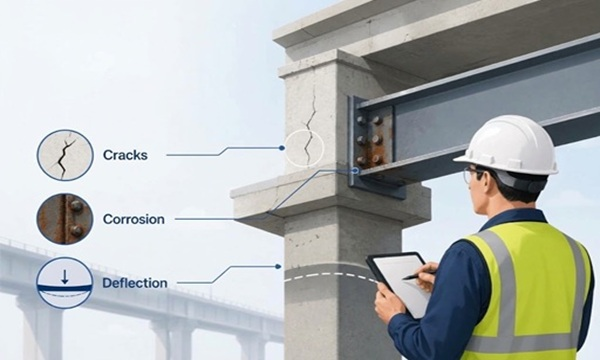
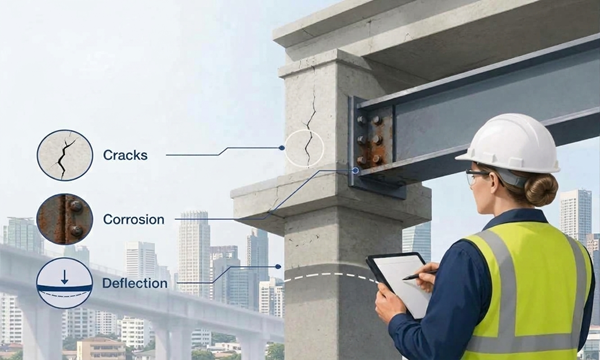
Adds the description for the process flow and a number of improvements to other sections

diff --git a/avi_document.md b/avi_document.md
@@ -10,33 +10,37 @@ The purpose of this document is to provide an overview of AVI, including its def
 
 ### Classical visual inspection
 
+![human-inspector](assets/human-inspector.png)
+
 Before defining what automatic visual inspection involves, it is important to understand what human-based inspection involves (classical visual inspection). Visual inspection is the process of examining products, components, or structures using the human eye; often aided by lighting, magnification, or simple hand tools; to detect flaws, defects, or non-compliance with quality standards. Below we list a few examples of classical visual inspection tasks across different industries.
 
 #### Food processing and sorting
 
 ![eggs-inspection](assets/eggs-inspection.png)
 
-Quality control sorters (line workers) stand alongside moving conveyor belts to manually inspect raw or semi-processed agricultural goods, e.g., fresh fruits, root vegetables, nuts,  bakery items. Their task is to scan for and discard bruised, rotting, or misshapen produce, alongside foreign contaminants, e.g., stones, stems, dirt clumps, or pieces of field debris. Such tasks are common in agribusiness, food packaging plants, frozen food processing, snack food manufacturing, and catering suppliers.
+Quality control sorters (line workers) stand alongside moving conveyor belts to manually inspect raw or semi-processed agricultural goods, e.g., fresh fruits, root vegetables, nuts,  bakery items. Their task is to scan for and discard bruised, rotting, or misshapen produce, alongside foreign contaminants, e.g., stones, stems, dirt clumps, or pieces of field debris. Such tasks are common in agribusiness, food packaging plants, frozen food processing, snack food manufacturing, and catering suppliers. The image in this example was generated using Gemini AI.
 
 #### Plastic parts inspection
 
 ![3d-print-inspection](assets/3d-print-inspection.png)
 
-Machine operators and / or quality control technicians visually inspect molded plastic components, e.g., automotive interior trim, appliance housings, plastic containers, or toys. This is typically done as the produced goods emerge from injection molding presses, extrusion lines or 3D printers. Inspectors check for surface defects such as excess plastic, sink marks, incomplete fills, flow lines, burn marks. Such tasks are common in automotive manufacturing, consumer electronics, toy production, medical device disposable packaging, and plastic injection molding services.
+Machine operators and / or quality control technicians visually inspect molded plastic components, e.g., automotive interior trim, appliance housings, plastic containers, or toys. This is typically done as the produced goods emerge from injection molding presses, extrusion lines or 3D printers. Inspectors check for surface defects such as excess plastic, sink marks, incomplete fills, flow lines, burn marks. Such tasks are common in automotive manufacturing, consumer electronics, toy production, medical device disposable packaging, and plastic injection molding services. The image in this example was generated using Gemini AI.
 
 #### Textile and fabric quality grading
 
 ![textile-inspection](assets/textile-inspection.png)
 
-Textile examiners feed large rolls of woven or knitted fabric through an illuminated inspection machine or board. As the fabric moves past at eye level, inspectors scan for irregularities such as, stains, missing ends, yarn lumps, and shade variations. They measure flaw sizes and apply standardized penalty points to determine if a roll passes quality thresholds. Such tasks are common in apparel and garment manufacturing, home textiles (bedding, curtains, floor coverings), industrial textile filters, and fabric distributors.
+Textile examiners feed large rolls of woven or knitted fabric through an illuminated inspection machine or board. As the fabric moves past at eye level, inspectors scan for irregularities such as, stains, missing ends, yarn lumps, and shade variations. They measure flaw sizes and apply standardized penalty points to determine if a roll passes quality thresholds. Such tasks are common in apparel and garment manufacturing, home textiles (bedding, curtains, floor coverings), industrial textile filters, and fabric distributors. The image in this example was generated using Gemini AI.
 
 #### Structural infrastructure inspection
 
 ![structural-inspection](assets/structural-inspection.png)
 
-Civil engineers and certified structural inspectors conduct visual surveys of critical infrastructure, e.g., concrete bridges, highway overpasses, tunnels, and retaining walls. Using specialized tools like crack-width rulers, inspection hammers, binoculars. They inspect surfaces for signs of structural cracking, rust bleeding from internal rebar corrosion, and joint deterioration. Such tasks are common in civil engineering consulting, municipal public works, state/national transportation departments, structural maintenance contractors, and commercial facility management.
+Civil engineers and certified structural inspectors conduct visual surveys of critical infrastructure, e.g., concrete bridges, highway overpasses, tunnels, and retaining walls. Using specialized tools like crack-width rulers, inspection hammers, binoculars. They inspect surfaces for signs of structural cracking, rust bleeding from internal rebar corrosion, and joint deterioration. Such tasks are common in civil engineering consulting, municipal public works, state/national transportation departments, structural maintenance contractors, and commercial facility management. The image in this example was generated using Gemini AI.
 
 ### Automatic visual inspection
+
+![avi-inspector](assets/avi-inspector.png)
 
 AVI is an industrial quality-control methodology that integrates specialized illumination, optical imaging, and computational algorithms to autonomously, objectively, and continuously evaluate manufactured products for defects, dimensional compliance, and surface anomalies at high production speeds. 
 
@@ -46,29 +50,29 @@ AVI is important because it drives quality assurance, reduces scrap rates, preve
 
 To see how AVI works in practice in textile manufacturing, we can look at Suntech's automated production line, which replaces traditional manual inspection and sorting with a integrated data-driven workflow. First, a visual inspection system uses cameras, controlled lighting, and machine learning to catch fabric flaws in real-time, recording their exact location and severity. Alongside it, another system keeps the material moving by automating edge alignment, tension control, cutting, sampling, and roll-end taping. Afterwards, an automated labeling and sorting system adds tracking barcodes and routes the rolls into the correct quality tiers. From there, a packaging station wraps the rolls in protective plastic. Finally, robotic stackers handle the transport, while linking shop-floor data directly to enterprise software for complete tracking and analytics.
 
-[![Watch the video](https://img.youtube.com/vi/7_0e6BIYZ6M/mqdefault.jpg)](https://youtu.be/7_0e6BIYZ6M)
+[![Watch the video](https://img.youtube.com/vi/7_0e6BIYZ6M/sddefault.jpg)](https://youtu.be/7_0e6BIYZ6M)
 
 #### Automated vision weighing in egg grading
 
 To see how AVI works in practice in food inspection, we can examine Sanovo's automated egg grading workflow, which replaces traditional mechanical scales and physical touch points with a contactless optical module. First, a vision and illumination system uses a built-in sensor to detect incoming eggs while an array of cameras captures detailed images per egg for complete surface coverage. Alongside this optical capture, machine learning algorithms determine the weight of each egg optically while simultaneously analyzing every surface detail in real time to isolate anomalies like hairline cracks and liquid leakers. Finally, a control and classification system allows users to fine-tune detection thresholds adjusting grading parameters for both quality and weight sorting.
 
-[![Watch the video](https://img.youtube.com/vi/MXmqqQa043I/mqdefault.jpg)](https://youtu.be/MXmqqQa043I)
-
-#### Indoor autonomous inspection
-
-To see how autonomous inspection works in practice, we can look at RaSpect's system which replaces traditional manual facility walkthroughs with an integrated data-driven workflow. First, an autonomous navigation and positioning system uses SLAM technology and path planning to build real-time spatial maps. Alongside it, a sensing and visual data acquisition system equips the robot with cameras to capture visual records and structural data from every corner of the facility. Afterwards, a processing system uploads the captured datasets to cloud environments, where machine learning algorithms analyze the information to automatically flag structural defects, wear-and-tear anomalies, and safety hazards. From there, an enterprise and analytics integration platform turns these insights into standardized, repeatable digital surveys that enable long-term trend analysis and simplify compliance checks.
-
-[![Watch the video](https://img.youtube.com/vi/cVAnaEyF7rw/mqdefault.jpg)](https://youtu.be/cVAnaEyF7rw)
+[![Watch the video](https://img.youtube.com/vi/MXmqqQa043I/sddefault.jpg)](https://youtu.be/MXmqqQa043I)
 
 #### Automated inline quality control system
 
 To see how automated inline quality control works in practice, we can look at the AM-Flow AM-Quality system, which replaces traditional manual sampling with a fully integrated scanning workflow. First, a 3D optical sensing system uses laser line profiles to capture complete surface geometry. Simultaneously, a digital inspection engine processes the data, comparing the 3D point-cloud against the reference CAD file to generate a deviation map, calculate dimensional variances, and execute immediate pass/fail evaluations. Finally, a robust reporting and enterprise software ecosystem generates comprehensive per-part metrology reports for complete audit trails.
 
-[![Watch the video](https://vumbnail.com/1019721995_medium.jpg)](https://vimeo.com/1019721995)
+[![Watch the video](https://vumbnail.com/1019721995_large.jpg)](https://vimeo.com/1019721995)
+
+#### Indoor autonomous inspection
+
+To see how autonomous inspection works in practice, we can look at RaSpect's system which replaces traditional manual facility walkthroughs with an integrated data-driven workflow. First, an autonomous navigation and positioning system uses SLAM technology and path planning to build real-time spatial maps. Alongside it, a sensing and visual data acquisition system equips the robot with cameras to capture visual records and structural data from every corner of the facility. Afterwards, a processing system uploads the captured datasets to cloud environments, where machine learning algorithms analyze the information to automatically flag structural defects, wear-and-tear anomalies, and safety hazards. From there, an enterprise and analytics integration platform turns these insights into standardized, repeatable digital surveys that enable long-term trend analysis and simplify compliance checks.
+
+[![Watch the video](https://img.youtube.com/vi/cVAnaEyF7rw/hqdefault.jpg)](https://youtu.be/cVAnaEyF7rw)
 
 ## Comparison between manual and automatic visual inspection
 
-The table below summarizes the key differences between manual visual inspection performed by human operators and automatic visual inspection (AVI) systems across various dimensions of performance, cost, and adaptability. The spider plot below shows a visual comparison of these dimensions, highlighting the strengths and weaknesses of each approach.
+The table below summarizes the key differences between manual visual inspection performed by human operators and automatic visual inspection (AVI) systems across various dimensions of performance, cost, and adaptability. The spider plot below shows a visual comparison of these dimensions, highlighting the strengths and weaknesses of each approach. The plot shows the number of advantages that AVI systems have over manual inspection. The numerical scores in the table were estimated based on observations of past projects and expert judgment.
 
 | **Feature** | **Manual inspection (Human)** | **Score (0-5)** | **Automatic visual inspection (AVI)** | **Score (0-5)** |
 | :--- | :--- | :---: | :--- | :---: |
@@ -84,9 +88,13 @@ The table below summarizes the key differences between manual visual inspection 
 
 ## Visual inspection design process
 
-(1) Image capture -> (2) System calibration -> (3) Image enhancement \& Pre-processing -> (4) Region of Interest \& Object detection -> (5) Feature extraction \& Anomaly detection -> (6) Decision fusion \& Post-processing -> (7) Action \& closed feedback loop
+![design-process](assets/design-process.png)
 
-⚠WARNING: Place holder for the visual inspection design process.⚠
+The AVI process relies on a model that transforms physical manufacturing components into actionable quality decisions. This model is shown in the figure above. The lifecycle begins with (1) image capture, using synchronized industrial cameras, custom lenses, and targeted illumination to convert parts into digital twins. Next, (2) system calibration addresses camera alignment, lighting adjustment, and the correction of geometric to guarantee cross-station integrity. Following acquisition, the digital data is (3) pre-processed through spatial filtering, contrast normalization, and precise alignment to suppress environmental disturbances.
+
+Afterwards, (4) region of interest isolation and object detection separate the target product from its background using segmentation algorithms. Thereafter, (5) feature extraction and anomaly detection modules identify known flaws and anomalies through supervised and unsupervised machine learning models. The resulting data is (6) post-processed and fused with other sensor information for decision making to issue definitive classifications of accept, reject, or escalate. Then, the (7) action and feedback phase coordinates sorting gates, logs metadata in quality tracking frameworks, and utilizes human-in-the-loop interventions to update and retrain models. The process normally also includes a (S)upporting step named model sandbox for testing and validating new algorithms before deployment.
+
+In the following sections, each step of the visual inspection design process is detailed, providing insights into the methodologies, tools, and considerations involved.
 
 ### (1) Image capture
 
@@ -115,3 +123,7 @@ The table below summarizes the key differences between manual visual inspection 
 ### (7) Action and closed feedback loop
 
 ⚠WARNING: Place holder for the feedback loop design process.⚠
+
+### (S) Model sandbox
+
+⚠WARNING: Place holder for the model sandbox design process.⚠
